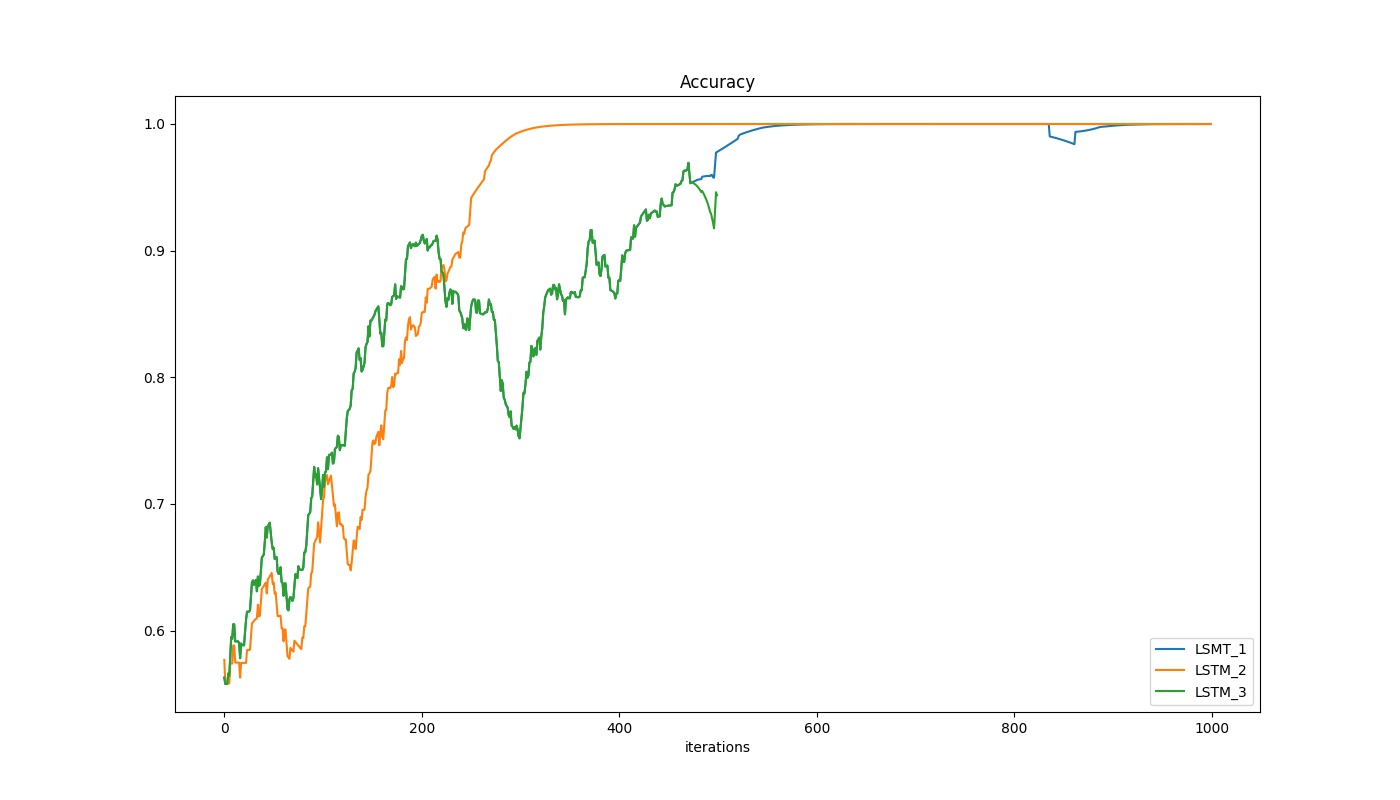
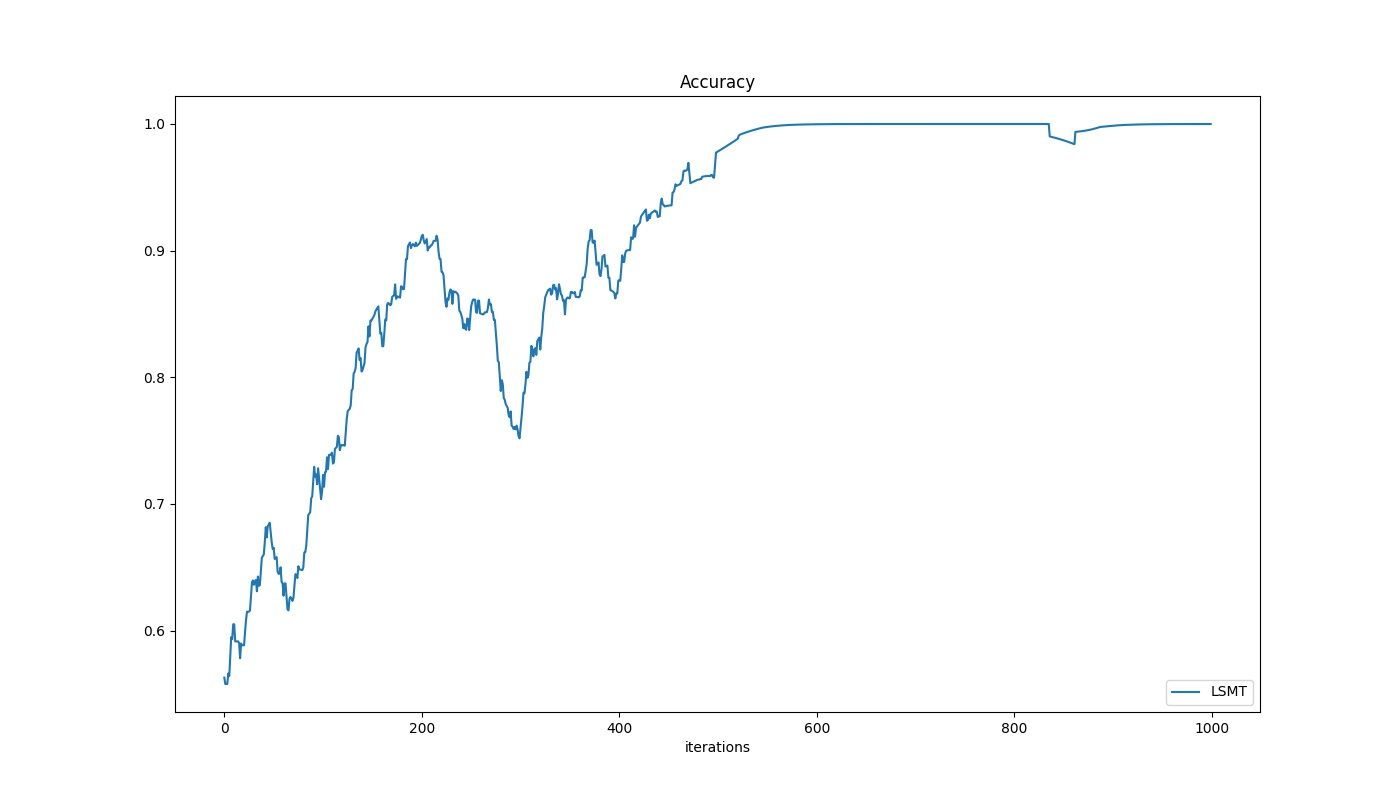
test add episode accuracy

diff --git a/common/utils.py b/common/utils.py
@@ -139,7 +139,7 @@ def test(env, agent, N, print_progress=True, seed=None):
     :param agent:
     :param N:
     :param print_progress:
-    :return: avg_reward, avg_accuracy, avg_f1
+    :return: avg_reward, avg_accuracy, avg_f1, eps_acc
     """
     if seed is not None:
         np.random.seed(seed)
@@ -151,6 +151,7 @@ def test(env, agent, N, print_progress=True, seed=None):
     rewards = []
     accs = []
     f1 = []
+    eps_acc = 0  # accuracy of episodes
 
     for i in range(1, N + 1):
         if print_progress:
@@ -162,6 +163,7 @@ def test(env, agent, N, print_progress=True, seed=None):
         ep_reward = 0.
         ep_act_target = []
         ep_act_agent = []
+        ep_correct = True
 
         while not done:
             action = agent.respond(obs)
@@ -172,12 +174,16 @@ def test(env, agent, N, print_progress=True, seed=None):
             ep_reward += reward
             ep_act_agent.append(action)
             ep_act_target.append(target_act)
+            if target_act != action:
+                ep_correct = False
 
         rewards.append(ep_reward)
         ep_acc = balanced_accuracy_score(ep_act_target, ep_act_agent)
         accs.append(ep_acc)
         ep_f1 = f1_score(ep_act_target, ep_act_agent, average='macro')
         f1.append(ep_f1)
+        if ep_correct:
+            eps_acc += 1
 
         if print_progress:
             env.render()
@@ -185,8 +191,9 @@ def test(env, agent, N, print_progress=True, seed=None):
     avg_reward = np.mean(rewards)
     avg_acc = np.mean(accs)
     avg_f1 = np.mean(f1)
+    eps_acc /= N
 
     print('\ntest end.')
-    print('avg reward: %.2f, avg accuracy: %.4f, avg f1: %.4f' % (avg_reward, avg_acc, avg_f1))
+    print('episode accuracy: %.2f, avg reward: %.2f, avg accuracy: %.4f, avg f1: %.4f' % (eps_acc, avg_reward, avg_acc, avg_f1))
 
     return avg_reward, avg_acc, avg_f1

diff --git a/example_fig.py b/example_fig.py
@@ -1,8 +1,12 @@
 from common.utils import load_train_res, train_results_plots
 
-res_1 = load_train_res('./LSTM/save/12_ax/LSTM_1.npy')
-res_2 = load_train_res('./LSTM/save/12_ax/LSTM_2.npy')
-res_3 = load_train_res('./LSTM/save/12_ax/LSTM_3.npy')
+# res_1 = load_train_res('./LSTM/save/12_ax/LSTM_1.npy')
+# res_2 = load_train_res('./LSTM/save/12_ax/LSTM_2.npy')
+# res_3 = load_train_res('./LSTM/save/12_ax/LSTM_3.npy')
+#
+# train_results_plots(dir='./fig/', figname='12_ax', names=['LSMT_1', 'LSTM_2', 'LSTM_3'], \
+#                     numbers=[res_1, res_2, res_3])
 
-train_results_plots(dir='./fig/', figname='12_ax', names=['LSMT_1', 'LSTM_2', 'LSTM_3'], \
-                    numbers=[res_1, res_2, res_3])
+res = load_train_res('./LSTM/save/12_ax/LSTM.npy')
+train_results_plots(dir='./fig/', figname='12_ax', names=['LSMT'], \
+                    numbers=[res])

diff --git a/LSTM/task_12_ax.py b/LSTM/task_12_ax.py
@@ -8,7 +8,7 @@ torch.manual_seed(123)
 
 env = gym.make('12_AX-v0', size=10, prob_target=0.5)
 
-N_tr = 500
+N_tr = 1000
 N_tst = 1000
 
 n_hidden = 10
